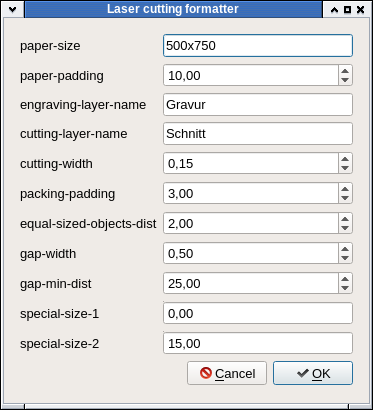
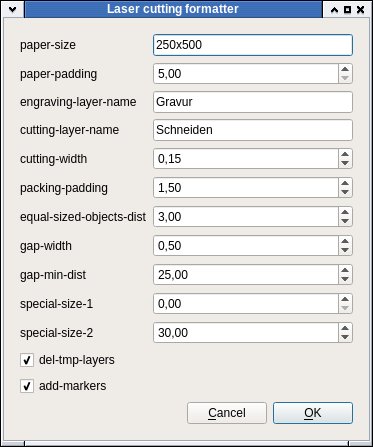
Markers and other changes

diff --git a/dist/lc.js b/dist/lc.js
@@ -49,7 +49,7 @@ else{break;}}},sinkDown:function(n){var length=this.content.length,element=this.
 swap=child1N;}
 if(child2N<length){var child2=this.content[child2N],child2Score=this.scoreFunction(child2);if(child2Score<(swap==null?elemScore:child1Score)){swap=child2N;}}
 if(swap!=null){this.content[n]=this.content[swap];this.content[swap]=element;n=swap;}
-else{break;}}}};exports.kdTree=kdTree;exports.BinaryHeap=BinaryHeap;}));var cfg={"paper-size":[500,750],"paper-padding":10,"engraving-layer-name":"Gravur","cutting-layer-name":"Schnitt","cutting-width":0.15,"packing-padding":3,"equal-sized-objects-dist":2,"gap-width":0.5,"gap-min-dist":25,"special-size-1":0,"special-size-2":196};include('/home/zippy/lc-qcad/tools.js');(function(){var before=Date.now();var doc=getDocument();var di=getDocumentInterface();var layA=doc.queryLayer('New');if(isNull(layA)){layA=AddLayer('New','Cyan');}
+else{break;}}}};exports.kdTree=kdTree;exports.BinaryHeap=BinaryHeap;}));var cfg={"paper-size":[500,750],"paper-padding":10,"engraving-layer-name":"Gravur","cutting-layer-name":"Schnitt","cutting-width":0.15,"packing-padding":3,"equal-sized-objects-dist":2,"gap-width":0.5,"gap-min-dist":25,"special-size-1":0,"special-size-2":196,"del-tmp-layers":false,"add-markers":true};include('/home/zippy/lc-qcad/tools.js');(function(){var before=Date.now();var doc=getDocument();var di=getDocumentInterface();var layA=doc.queryLayer('New');if(isNull(layA)){layA=AddLayer('New','Cyan');}
 function SetStyle(itm){if(itm.getLayerName()!=cfg['engraving-layer-name']){itm.setLayerId(layA.getId());}
 itm.setLinetypeId(0);itm.setLineweight(RLineweight.WeightByLayer);itm.setColor(new RColor(RColor.ByLayer));}
 var op=new RDeleteObjectsOperation(false);var all=doc.queryAllEntities(false,true);for(var i=0;i<all.length;i++){var ent=doc.queryEntity(all[i]);if(isDimensionEntity(ent)||isHatchEntity(ent)||isPointEntity(ent)||isXLineEntity(ent)||isRayEntity(ent)||isTextEntity(ent)){op.deleteObject(ent);}}
@@ -170,12 +170,16 @@ for(var k in r){q[k]=r[k];}}else{}}}}
 (function(){var before=Date.now();var doc=getDocument();var di=getDocumentInterface();var entities=doc.queryAllEntities();var layA=doc.queryLayer('Convex');if(isNull(layA)){layA=AddLayer('Convex','Magenta');}
 var layB=doc.queryLayer('OBB');if(isNull(layB)){layB=AddLayer('OBB','Blue');}
 var layC=doc.queryLayer(cfg['cutting-layer-name']);if(isNull(layC)){layC=AddLayer(cfg['cutting-layer-name'],'Black');}
-var layD=doc.queryLayer(cfg['engraving-layer-name']);var op=new RAddObjectsOperation(false);var i;for(i=0;i<entities.length;i++){var ent=doc.queryEntity(entities[i]);var layName=ent.getLayerName();if(layName=='Offs'||layName==cfg['engraving-layer-name']){if(layName=='Offs'&&ent.hasCustomProperty('lc-qcad','outside')){var pl=ent.getData();var segs=pl.getExploded();var simplified=[];var pars=[];for(var j=0;j<segs.length;j++){var seg=segs[j];if(isArcShape(seg)){var apr=seg.approximateWithLines(1),expl=apr.getExploded();Array.prototype.push.apply(simplified,expl);for(var k=0;k<expl.length;k++){pars.push(j);}}else{simplified.push(seg);pars.push(j);}}
+var layD=doc.queryLayer(cfg['engraving-layer-name']);var layE=doc.queryLayer('Markers');if(isNull(layE)){layE=AddLayer('Markers','Lime');}
+var op=new RAddObjectsOperation(false);var i;for(i=0;i<entities.length;i++){var ent=doc.queryEntity(entities[i]);var layName=ent.getLayerName();if(layName=='Offs'||layName==cfg['engraving-layer-name']){if(layName=='Offs'&&ent.hasCustomProperty('lc-qcad','outside')){var pl=ent.getData();var segs=pl.getExploded();var simplified=[];var pars=[];for(var j=0;j<segs.length;j++){var seg=segs[j];if(isArcShape(seg)){var apr=seg.approximateWithLines(1),expl=apr.getExploded();Array.prototype.push.apply(simplified,expl);for(var k=0;k<expl.length;k++){pars.push(j);}}else{simplified.push(seg);pars.push(j);}}
 var pts=[];for(var j=0;j<simplified.length;j++){pts.push(simplified[j].getStartPoint());}
-var cx=GetCX(pts);var cxPoly=new RPolyline(cx.map(function(id){return pts[id];}),true),cxEnt=shapeToEntity(doc,cxPoly);var obb=GetOBB(pts,cx);var obbEnt=shapeToEntity(doc,obb[4]);var infos=GetInfos(pts,cx,obb);var R={};var ratio=obb[1]/obb[2];ratio=Math.min(ratio,1/ratio);var pairs=['AC','BD'];var diag=obb[1]*obb[1]+obb[2]*obb[2];if(cfg['special-size-1']>1e-5&&obb[0]>Math.pow(cfg['special-size-1'],2)){AddSideGaps(pts,infos,'ABCD',R);}else{if(diag<Math.pow(cfg['special-size-2'],2)){AddGaps(pts,infos.filter(function(info){return info.real;}).reduce(function(p,c){return p.l<c.l?p:c;}).ids,R,true);}else{if(ratio<.8){var sides=obb[2]>obb[1]?pairs[0]:pairs[1];if(ratio>.2){AddSideGaps(pts,infos,sides,R);}else{if(infos.some(function(info){return info.side==sides[0]&&info.ids.length>2;})){AddSideGaps(pts,infos,sides[0],R);}else if(infos.some(function(info){return info.side==sides[1]&&info.ids.length>2;})){AddSideGaps(pts,infos,sides[1],R);}else{AddSideGaps(pts,infos,pairs[(pairs.indexOf(sides)+1)%2],R);}}}else{AddSideGaps(pts,infos,'ABCD',R);}}}
-var num=pts.length;var newSegs=[];if(Object.keys(R).length==0){var dat=segs.map(function(s){if(isArcShape(s)){var r=s.getRadius(),c=s.getCenter();return[r.toFixed(4),c.x.toFixed(4),c.y.toFixed(4)].join(',');}else{return '-';}}).filter(function(itm,pos,ary){return!pos||itm!=ary[pos-1];});if(dat.length==1&&dat[0]!='-'){var center=segs[0].getCenter(),r=segs[0].getRadius();var phi=Math.asin(cfg['gap-width']/(2*r));var n=Math.max(1,2*Math.PI*r/cfg['gap-min-dist']>>0);var ang=2*Math.PI/n;for(var j=0;j<n;j++){var k=(j+1)%n;var angA=j*ang+phi,angB=k*ang-phi;var newArc=new RArc(center,r,angA,angB);newSegs.push(newArc);}}}
-if(newSegs.length==0){var used=[];for(var j=0;j<num;j++){if(R.hasOwnProperty(j)){Array.prototype.push.apply(newSegs,R[j].map(function(r){return new RLine(r[0],r[1]);}));}else{if(used.indexOf(pars[j])<0){newSegs.push(segs[pars[j]].clone());used.push(pars[j]);}}}}
+var cx=GetCX(pts);var cxPoly=new RPolyline(cx.map(function(id){return pts[id];}),true),cxEnt=shapeToEntity(doc,cxPoly);var obb=GetOBB(pts,cx);var obbEnt=shapeToEntity(doc,obb[4]);var infos=GetInfos(pts,cx,obb);var R={};var ratio=obb[1]/obb[2];ratio=Math.min(ratio,1/ratio);var pairs=['AC','BD'];var diag=obb[1]*obb[1]+obb[2]*obb[2];if(cfg['special-size-1']>1e-5&&obb[0]>Math.pow(cfg['special-size-1'],2)){AddSideGaps(pts,infos,'ABCD',R);}else{if(diag<Math.pow(cfg['special-size-2'],2)){try{AddGaps(pts,infos.filter(function(info){return info.real&&info.l>2;}).reduce(function(p,c){return p.l<c.l?p:c;}).ids,R,true);}catch(e){}}else{if(ratio<.8){var sides=obb[2]>obb[1]?pairs[0]:pairs[1];if(ratio>.2){AddSideGaps(pts,infos,sides,R);}else{if(infos.some(function(info){return info.side==sides[0]&&info.ids.length>2;})){AddSideGaps(pts,infos,sides[0],R);}else if(infos.some(function(info){return info.side==sides[1]&&info.ids.length>2;})){AddSideGaps(pts,infos,sides[1],R);}else{AddSideGaps(pts,infos,pairs[(pairs.indexOf(sides)+1)%2],R);}}}else{AddSideGaps(pts,infos,'ABCD',R);}}}
+var num=pts.length;var newSegs=[],markers=[];if(Object.keys(R).length==0){var dat=segs.map(function(s){if(isArcShape(s)){var r=s.getRadius(),c=s.getCenter();return[r.toFixed(4),c.x.toFixed(4),c.y.toFixed(4)].join(',');}else{return '-';}}).filter(function(itm,pos,ary){return!pos||itm!=ary[pos-1];});if(dat.length==1&&dat[0]!='-'){var center=segs[0].getCenter(),r=segs[0].getRadius();var phi=Math.asin(cfg['gap-width']/(2*r));var n=Math.max(1,2*Math.PI*r/cfg['gap-min-dist']>>0);var ang=2*Math.PI/n;for(var j=0;j<n;j++){var k=(j+1)%n;var angA=j*ang+phi,angB=k*ang-phi;var newArc=new RArc(center,r,angA,angB);newSegs.push(newArc);var v=new RVector(r,0);v.setAngle(j*ang);markers.push(center.operator_add(v));}}}
+if(newSegs.length==0){var used=[];for(var j=0;j<num;j++){if(R.hasOwnProperty(j)){Array.prototype.push.apply(newSegs,R[j].map(function(r){return new RLine(r[0],r[1]);}));R[j].slice(0,-1).forEach(function(r,idx){var nxt=R[j][idx+1];markers.push(new RVector(r[1].x+.5*(nxt[0].x-r[1].x),r[1].y+.5*(nxt[0].y-r[1].y)));});}else{if(used.indexOf(pars[j])<0){newSegs.push(segs[pars[j]].clone());used.push(pars[j]);}}}}
 for(var j=0;j<newSegs.length;j++){var newEnt=shapeToEntity(doc,newSegs[j]);newEnt.setLayerId(layC.getId());op.addObject(newEnt,false);}
+if(cfg['add-markers']){for(var j=0;j<markers.length;j++){var circ=new RCircle(markers[j],1),circEnt=shapeToEntity(doc,circ);circEnt.setLayerId(layE.getId());op.addObject(circEnt,false);}}
 cxEnt.setLayerId(layA.getId());obbEnt.setLayerId(layB.getId());op.addObject(cxEnt,false);op.addObject(obbEnt,false);}else{var expl=isPolylineEntity(ent)?ent.getExploded():[ent.castToShape()];for(var j=0;j<expl.length;j++){var newEnt=shapeToEntity(doc,expl[j].clone());newEnt.setLayerId(layName==cfg['engraving-layer-name']?layD.getId():layC.getId());op.addObject(newEnt,false);}}
 op.deleteObject(ent);}}
-di.applyOperation(op);qDebug((Date.now()-before)/1e3,'s');})();
+di.applyOperation(op);qDebug((Date.now()-before)/1e3,'s');})();include('/home/zippy/lc-qcad/tools.js');(function(){var before=Date.now();var doc=getDocument();var di=getDocumentInterface();if(cfg['del-tmp-layers']){var layers=['Convex','New','OBB','Offs'];if(!cfg['add-markers']){layers.push('Markers');}
+var op=new RDeleteObjectsOperation(false);layers.forEach(function(name){var lay=doc.queryLayer(name);op.deleteObject(lay);});di.applyOperation(op);}
+qDebug((Date.now()-before)/1e3,'s');})();

diff --git a/06_gaps.js b/06_gaps.js
@@ -460,6 +460,11 @@ function AddSideGaps (pts, infos, sides, q) {
 
     var layD = doc.queryLayer(cfg['engraving-layer-name']);
 
+    var layE = doc.queryLayer('Markers');
+    if (isNull(layE)) {
+        layE = AddLayer('Markers', 'Lime');
+    }
+
     var op = new RAddObjectsOperation(false);
 
     var i;
@@ -536,9 +541,13 @@ function AddSideGaps (pts, infos, sides, q) {
                 } else {
 
                     if (diag < Math.pow(cfg['special-size-2'], 2)) {
-                        AddGaps(pts, infos.filter(function (info) { return info.real; }).reduce(function (p, c) {
-                            return p.l < c.l ? p : c;
-                        }).ids, R, true);
+                        try {
+                            AddGaps(pts, infos.filter(function (info) { return info.real && info.l > 2; }).reduce(function (p, c) {
+                                return p.l < c.l ? p : c;
+                            }).ids, R, true);
+                        } catch (e) {
+                            // TypeError von reduce
+                        }
 
                     } else {
 
@@ -570,7 +579,8 @@ function AddSideGaps (pts, infos, sides, q) {
 
                 var num = pts.length;
 
-                var newSegs = [];
+                var newSegs = [],
+                    markers = [];
 
                 if (Object.keys(R).length == 0) {
                     var dat = segs.map(function (s) {
@@ -604,6 +614,10 @@ function AddSideGaps (pts, infos, sides, q) {
                             var newArc = new RArc(center, r, angA, angB);
 
                             newSegs.push(newArc);
+
+                            var v = new RVector(r, 0);
+                            v.setAngle(j*ang);
+                            markers.push(center.operator_add(v));
                         }
                     }
 
@@ -615,6 +629,12 @@ function AddSideGaps (pts, infos, sides, q) {
                     for (var j = 0; j < num; j++) {
                         if (R.hasOwnProperty(j)) {
                             Array.prototype.push.apply(newSegs, R[j].map(function (r) { return new RLine(r[0], r[1]); }));
+
+                            R[j].slice(0, -1).forEach(function (r, idx) {
+                                var nxt = R[j][idx+1];
+                                markers.push(new RVector(r[1].x+.5*(nxt[0].x-r[1].x), r[1].y+.5*(nxt[0].y-r[1].y)));
+                            });
+
                         } else {
                             if (used.indexOf(pars[j]) < 0) {
                                 newSegs.push(segs[pars[j]].clone());
@@ -629,6 +649,16 @@ function AddSideGaps (pts, infos, sides, q) {
                     var newEnt = shapeToEntity(doc, newSegs[j]);
                     newEnt.setLayerId(layC.getId());
                     op.addObject(newEnt, false);
+                }
+
+                if (cfg['add-markers']) {
+                    for (var j = 0; j < markers.length; j++) {
+                        var circ = new RCircle(markers[j], 1),
+                            circEnt = shapeToEntity(doc, circ);
+
+                        circEnt.setLayerId(layE.getId());
+                        op.addObject(circEnt, false);
+                    }
                 }
 
                 // darstellung

diff --git a/gui/LaserCuttingFormatter.js b/gui/LaserCuttingFormatter.js
@@ -85,7 +85,9 @@ LaserCuttingFormatter.prototype.beginEvent = function () {
         'gap-width': this.widgets['GapWidth'].value,
         'gap-min-dist': this.widgets['GapMinDist'].value,
         'special-size-1': this.widgets['SpecialSize1'].value,
-        'special-size-2': this.widgets['SpecialSize2'].value
+        'special-size-2': this.widgets['SpecialSize2'].value,
+        'del-tmp-layers': this.widgets['DelTmpLayers'].checked,
+        'add-markers': this.widgets['AddMarkers'].checked,
     };
 
     bundleFct(userCfg);

diff --git a/README.md b/README.md
@@ -40,6 +40,7 @@ There are a few things that you should consider before using the plugin.
 - parts may not overlap
 - contours (inner and outer) and engravings must be clearly separated from each other
 - contours have to be closed
+- all layers must be visible and unlocked
 
 ## Usage
 
@@ -67,7 +68,6 @@ Furthermore there are this values:
   - if this requirement is not fulfilled, it can not be guaranteed that an engraving primitive is associated to the right part
 - **cutting-layer-name**
   - the name of the layer where the new primitives will be created
-  - if the layer already exists, a number will be appended to the name
 - **special-size-1**
   - this value is used to control the appearance of the gaps
   - it is a single length that will be squared internally to an area
@@ -78,6 +78,11 @@ Furthermore there are this values:
 - **special-size-2**
   - this is the length of the squared diagonal that is used to decide if a part should have only one gap
   - if the diagonal of a bounding box is smaller than this value, the gap will be added to the shortest edge (that is part of the convex hull)
+- **del-tmp-layers**
+  - if this option is checked, some not necessary layers will be deleted at the end
+- **add-markers**
+  - for control purpose, little circles will be created on top of the gaps
+  - the added gaps are now better visible in smaller zoom levels
 
 ## Notes
 
